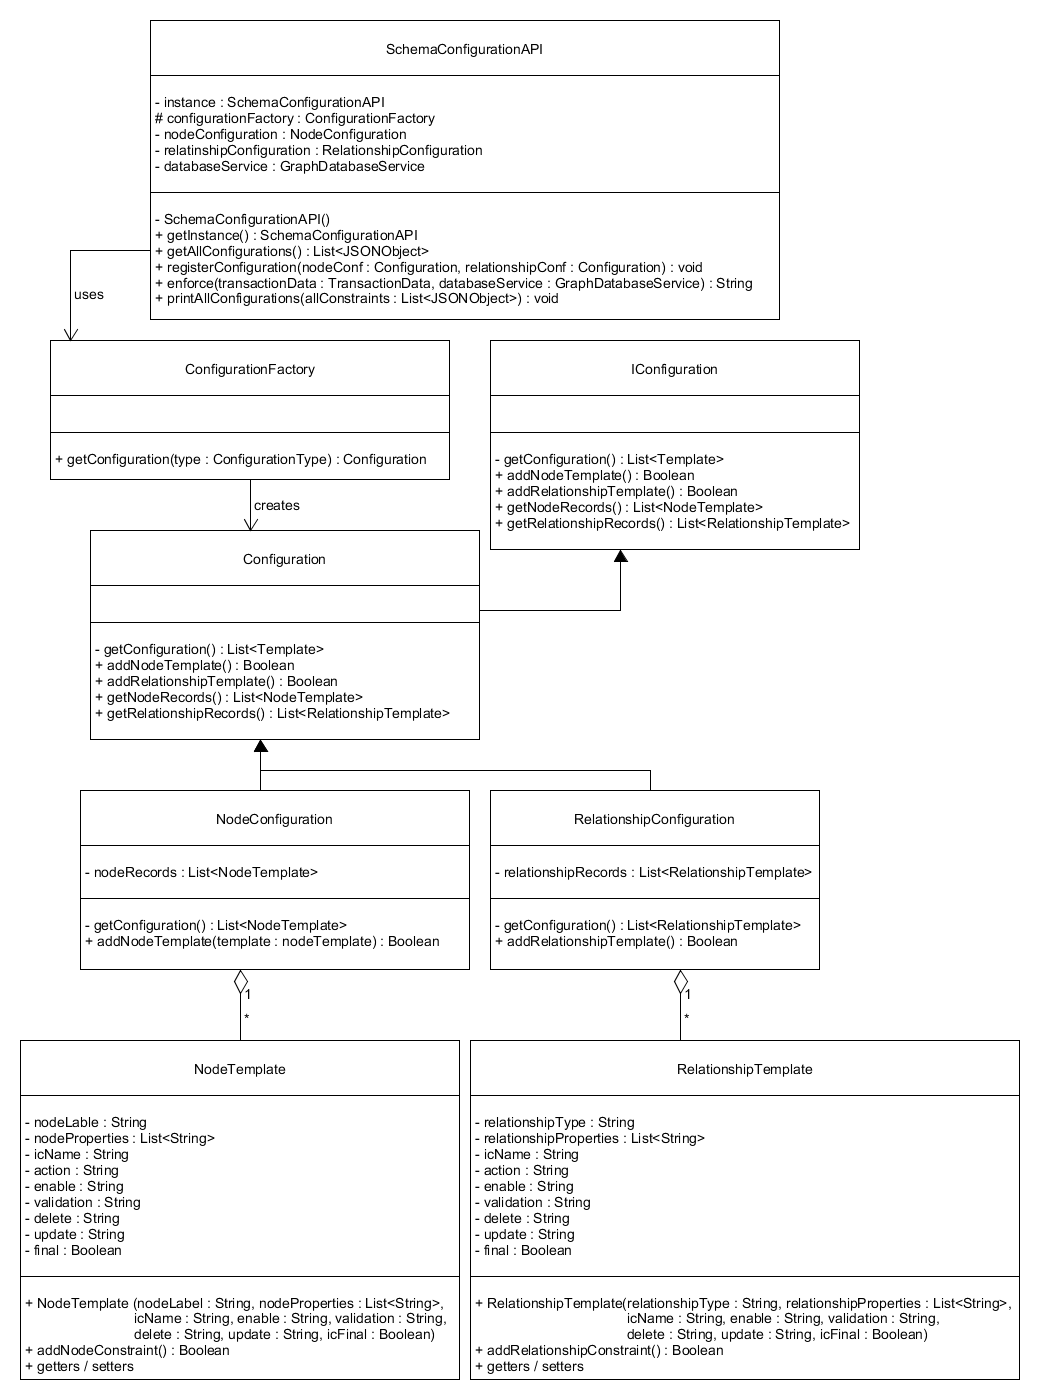
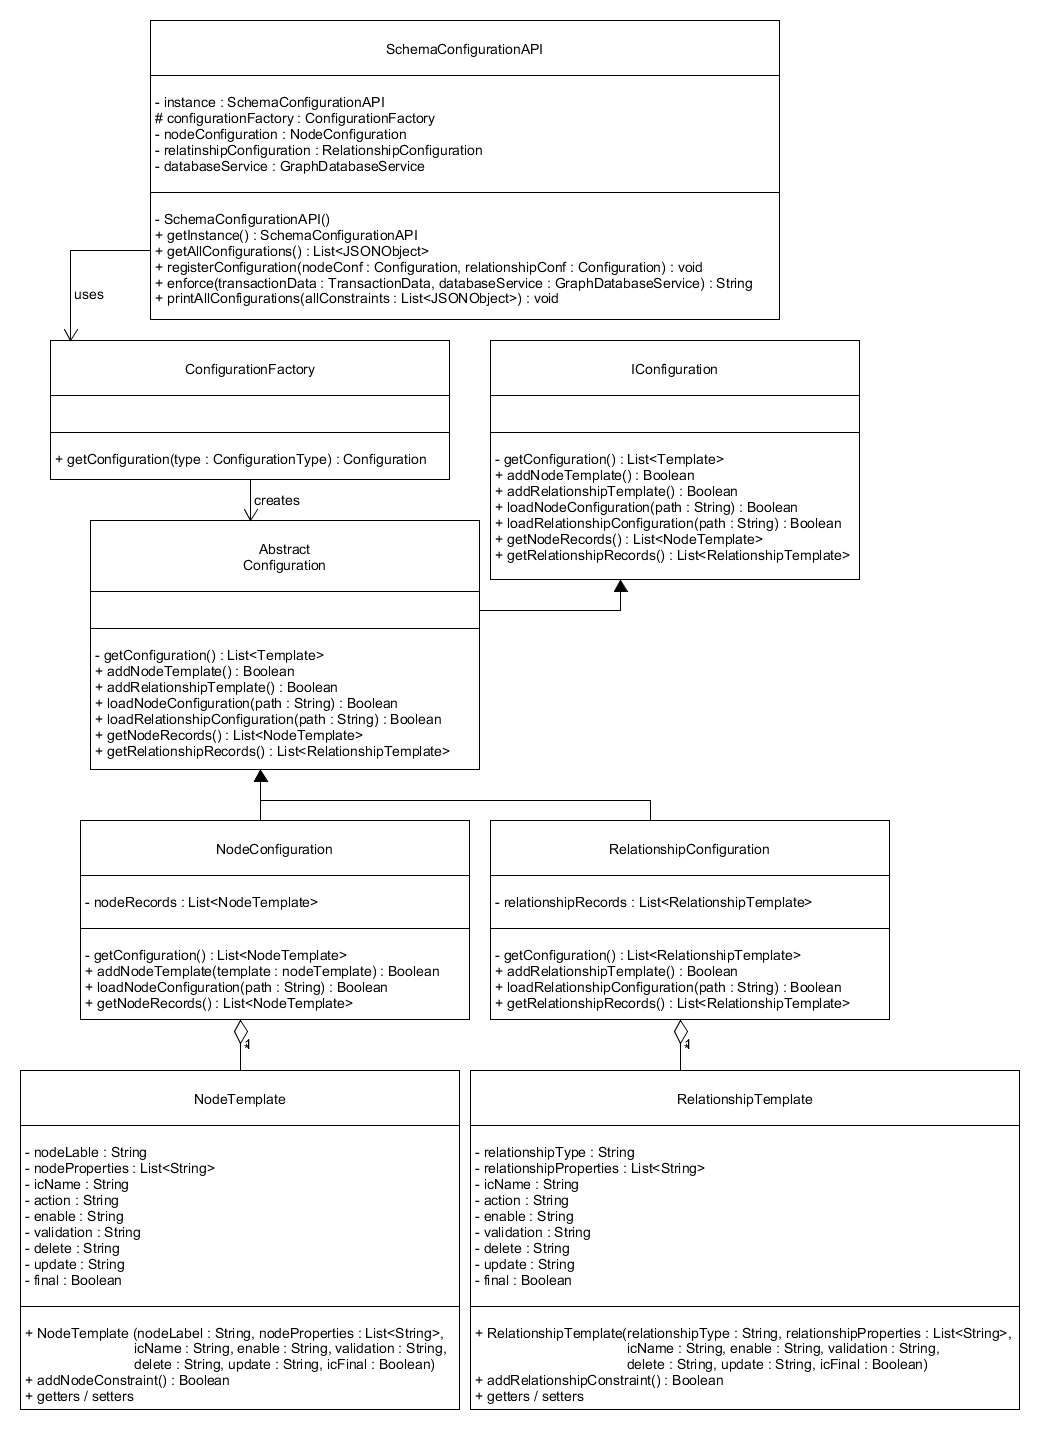
Load JSON configuration files

diff --git a/src/main/java/com/kovacic/neo4j/schema/Configuration.java b/src/main/java/com/kovacic/neo4j/schema/Configuration.java
@@ -1,7 +1,13 @@
 package com.kovacic.neo4j.schema;
 
+
+
+import org.json.JSONArray;
 import org.json.JSONObject;
 
+import java.io.BufferedReader;
+import java.io.File;
+import java.io.FileReader;
 import java.util.LinkedList;
 import java.util.List;
 
@@ -45,5 +51,49 @@ public abstract class Configuration implements IConfiguration {
     @Override
     public Boolean addRelationshipTemplate(RelationshipTemplate template) {
         return this.relationshipRecords.add(template);
+    }
+
+    @Override
+    public Boolean loadNodeConfiguration(String path) {
+        File file = new File(path);
+        System.out.println(file.exists());
+        nodeJsonParser(path);
+        return true;
+    }
+
+    @Override
+    public Boolean loadRelationshipConfiguration(String path) {
+        return null;
+    }
+
+    private void nodeJsonParser(String path)
+    {
+        String jsonData = readFile(path);
+        JSONObject obj = new JSONObject(jsonData);
+        System.out.println(obj.length());
+        System.out.println("options: " + obj.get("clause"));
+    }
+
+    private void relationshipJsonParser(String path)
+    {
+
+    }
+
+    private String readFile (String path)
+    {
+        String result = "";
+        try {
+            BufferedReader br = new BufferedReader(new FileReader(path));
+            StringBuilder sb = new StringBuilder();
+            String line = br.readLine();
+            while (line != null) {
+                sb.append(line);
+                line = br.readLine();
+            }
+            result = sb.toString();
+        } catch(Exception e) {
+            e.printStackTrace();
+        }
+        return result;
     }
 }

diff --git a/src/test/java/com/kovacic/neo4j/schema/ICTests.java b/src/test/java/com/kovacic/neo4j/schema/ICTests.java
@@ -87,6 +87,20 @@ public class ICTests {
     }
 
     @Test
+    public void schemaDefinitonLoadJSON()
+    {
+        SchemaConfiguration schemaConfiguration = SchemaConfiguration.getInstance();
+        Configuration nodeConf = schemaConfiguration.configurationFactory.getConfiguration(ConfigurationType.NodeConfiguration);
+        nodeConf.loadNodeConfiguration("./schemaConfigurations/nodeConfigs.json");
+        schemaConfiguration.registerConfiguration(nodeConf, null);
+        List<JSONObject> ics = schemaConfiguration.getAllConfiguration();
+        Iterator<JSONObject> iterator = ics.iterator();
+        while (iterator.hasNext()) {
+            System.out.println(iterator.next());
+        }
+    }
+
+    @Test
     public void schemaTests() {
         SchemaConfiguration schemaConfiguration = SchemaConfiguration.getInstance();
         Configuration nodeConf = schemaConfiguration.configurationFactory.getConfiguration(ConfigurationType.NodeConfiguration);

diff --git a/src/main/java/com/kovacic/neo4j/schema/NodeConfiguration.java b/src/main/java/com/kovacic/neo4j/schema/NodeConfiguration.java
@@ -15,6 +15,11 @@ public class NodeConfiguration extends Configuration {
         return super.getConfiguration();
     }
 
+    @Override
+    public Boolean loadNodeConfiguration(String path) {
+        return super.loadNodeConfiguration(path);
+    }
+
     /*@Override
     public Boolean addNodeTemplate(NodeTemplate template) {
         System.out.println("NodeConfiguration fires " + template.icName);

diff --git a/src/main/java/com/kovacic/neo4j/schema/RelationshipConfiguration.java b/src/main/java/com/kovacic/neo4j/schema/RelationshipConfiguration.java
@@ -11,4 +11,9 @@ public class RelationshipConfiguration extends Configuration {
     public Configuration getConfiguration() {
         return super.getConfiguration();
     }
+
+    @Override
+    public Boolean loadRelationshipConfiguration(String path) {
+        return super.loadRelationshipConfiguration(path);
+    }
 }

diff --git a/src/main/java/com/kovacic/neo4j/schema/IConfiguration.java b/src/main/java/com/kovacic/neo4j/schema/IConfiguration.java
@@ -13,4 +13,6 @@ public interface IConfiguration {
     Configuration getConfiguration();
     Boolean addNodeTemplate(NodeTemplate template);
     Boolean addRelationshipTemplate(RelationshipTemplate template);
+    Boolean loadNodeConfiguration(String path);
+    Boolean loadRelationshipConfiguration(String path);
 }
